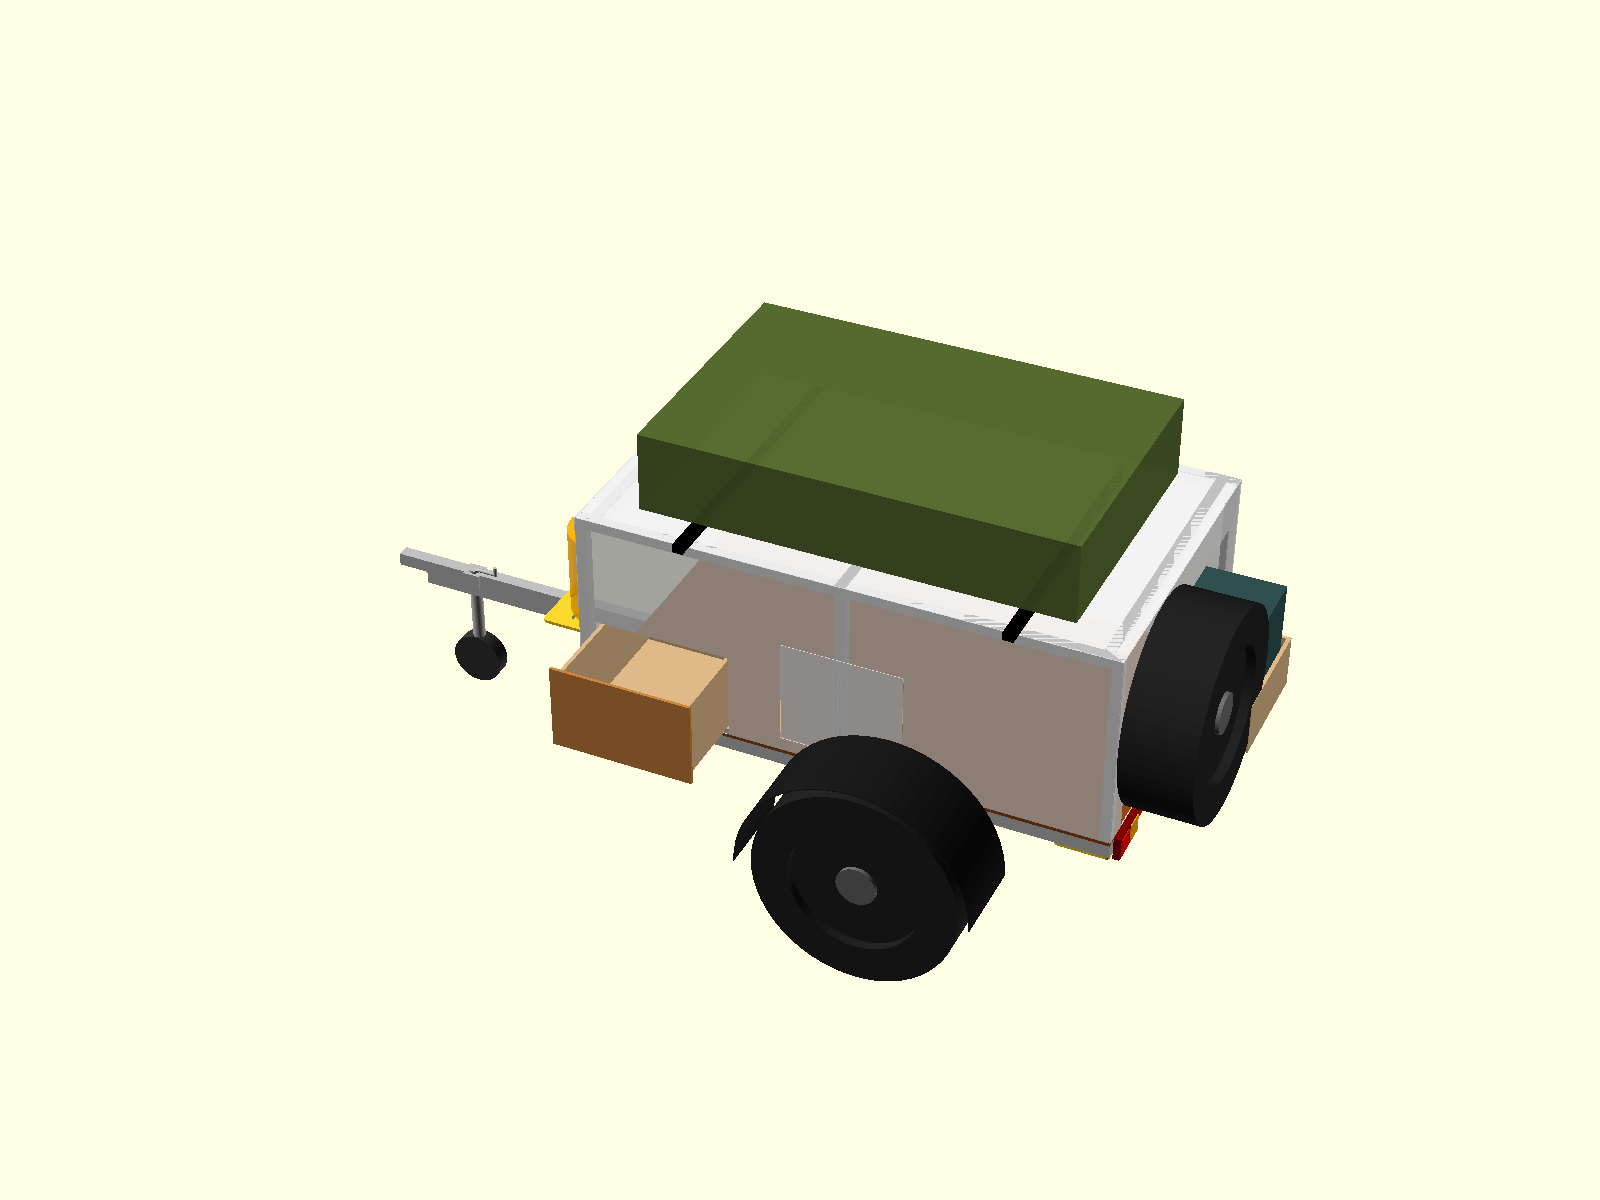
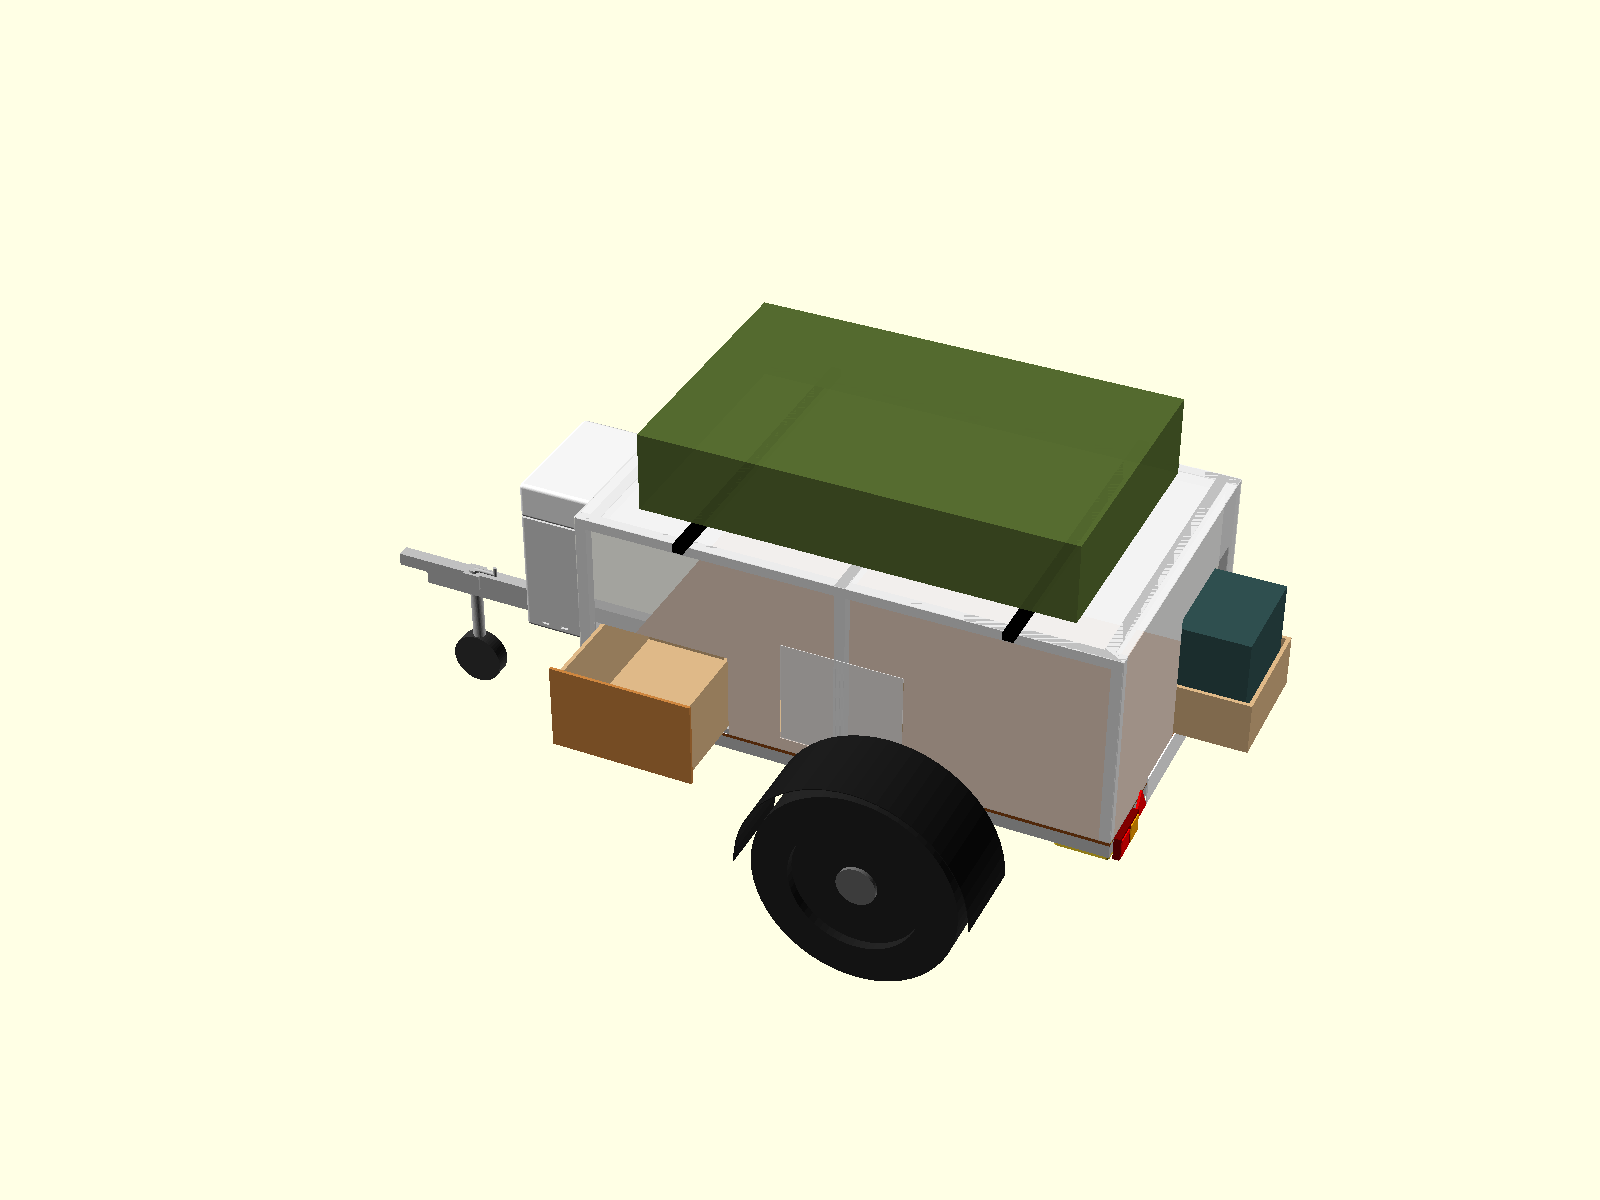
Gas locker box, no trailer spare, fridge-only rear hatch
- cad/gas_box.scad: caravan-style lockable gas locker on the drawbar,
  flush with the front wall - EN 1949 low-level vents, regulator
  inside, clamped to the beam (no holes in the drawbar). Replaces the
  open cradle + stone guard (kept as budget alternative).
- Spare wheel removed from the trailer: the wheel spec matches the
  Ranger exactly, so the car's underslung spare serves both.
- Rebalance: water-tank placeholder moved BEHIND the axle (x~1400,
  centered - freed by the spare removal, no drawbar there). Tongue
  58.5 kg (9.8%) full / 62.4 kg (11.3%) water empty; calculate_mass.py
  now reports both states and allows up to 12% with an S-value note.
- Rear wall solid except a 500x520 fridge hatch on the rear right,
  sill-free at the floor (was a full-width tailgate opening).

Changed region(s): [[0.6875, 0.4625, 0.8125, 0.7092], [0.3125, 0.4008, 0.375, 0.5242]]

diff --git a/scripts/calculate_mass.py b/scripts/calculate_mass.py
@@ -42,7 +42,6 @@ COMPONENTS = [
     # --- Running gear ---
     ("Torsion axle, braked, 6x139.7 + dampers",        75.0, AXLE_X),
     ("Wheels 2x 265/60R18 on Ranger rims (~32 kg)",    64.0, AXLE_X),
-    ("Spare wheel (rear mount)",                       32.0, 1900),
     ("Fenders + brackets",                              6.0, AXLE_X),
     ("Jockey wheel",                                    5.0, -800),
 
@@ -54,10 +53,14 @@ COMPONENTS = [
     ("Roof racks + roof tent",                         70.0, 1000),
 
     # --- Water (PLACEHOLDER: tank removed from the CAD assembly while
-    #     the mounting is reworked; keep the mass here at the candidate
-    #     position so the tongue budget stays honest) ---
-    ("Water tank 40 L FULL + tank (mounting TBD)",     45.0,  780),
-    ("Skid plate 3 mm alu tread (mounting TBD)",        6.5,  780),
+    #     the mounting is reworked. Candidate spot: BEHIND the axle,
+    #     centered (x~1400) — freed up when the spare wheel left the
+    #     trailer; no drawbar down there (beam ends at 1020) and it
+    #     pulls the tongue back into the window with the gas box up
+    #     front. Note: tongue RISES as water is consumed - see the
+    #     dry-tank line in the output.) ---
+    ("Water tank 40 L FULL + tank (mounting TBD)",     45.0, 1400),
+    ("Skid plate 3 mm alu tread (mounting TBD)",        6.5, 1400),
     ("Pump, hoses, filler, drain valve",                4.0, 1200),
 
     # --- Electrical (right side, bay ahead of the fridge drawer) ---
@@ -67,8 +70,8 @@ COMPONENTS = [
     ("Teltonika router, antenna, coax",                 3.0,  600),
 
     # --- Gas (right side / drawbar) ---
-    ("Propane P6 bottle FULL (6 kg gas + steel)",      14.0, -210),
-    ("Cradle, stone guard, straps",                     7.0, -210),
+    ("Propane P6 bottle FULL (6 kg gas + steel)",      14.0, -230),
+    ("Gas locker box + bearers/clamps (caravan style)", 10.0, -230),
     ("Gas piping, quick-connects, niches",              4.0, 1400),
 
     # --- Galley (kitchen/storage LEFT, electrical bay/fridge RIGHT) ---
@@ -116,13 +119,26 @@ def main():
     else:
         print(f"  [ok] Within assumed axle rating ({AXLE_RATING} kg — update to the purchased axle).")
 
-    pct = 100 * tongue / total
-    if not (5 <= pct <= 10):
-        print(f"  [!] Tongue load {pct:.1f}% is outside the 5-10% target — move the axle or heavy components.")
-    else:
-        print(f"  [ok] Tongue load within 5-10% target.")
+    # Tongue with the water tank EMPTY (worst case moves as the tank is
+    # consumed; water sits behind the axle, so draining RAISES the tongue)
+    dry = [(n, m, x) for n, m, x in COMPONENTS if "Water tank" not in n]
+    total_d = sum(m for _, m, _ in dry)
+    tongue_d = sum(m * (AXLE_X - x) for _, m, x in dry) / (AXLE_X - COUPLING_X)
+    print(f"  Tongue load (water empty):        {tongue_d:6.1f} kg ({100*tongue_d/total_d:.1f}%)")
 
-    if tongue > 100:
+    # Target: 5-10% classic guidance; up to ~12% is fine (and stability-
+    # positive) as long as the coupling S-value and the Ranger's rated
+    # ball load are respected.
+    for label, t, tot in (("full", tongue, total), ("water empty", tongue_d, total_d)):
+        pct = 100 * t / tot
+        if pct > 12 or pct < 5:
+            print(f"  [!] Tongue ({label}) {pct:.1f}% outside 5-12% — move the axle or heavy components.")
+        elif pct > 10:
+            print(f"  [i] Tongue ({label}) {pct:.1f}% — above the classic 10%, OK if within the coupling S-value / towbar ball rating.")
+        else:
+            print(f"  [ok] Tongue ({label}) {pct:.1f}% within the 5-10% target.")
+
+    if max(tongue, tongue_d) > 100:
         print(f"  [!] Check the Ford Ranger towbar's rated ball load (typical 75-100 kg for EU spec).")
 
 

diff --git a/SPECS.md b/SPECS.md
@@ -2,7 +2,7 @@
 
 ## Overall Goals
 - **Tow Vehicle:** Ford Ranger
-- **Track Width and Bolt Pattern:** Matched exactly to the tow vehicle (6x139.7). Tire size: 265/60R18 Falken Wildpeak A/T3W on Ford original rims. A common spare wheel is used for both car and trailer.
+- **Track Width and Bolt Pattern:** Matched exactly to the tow vehicle (6x139.7). Tire size: 265/60R18 Falken Wildpeak A/T3W on Ford original rims. The Ranger's underslung spare serves both car and trailer — no spare is carried on the trailer.
 - **Manufacturing Technique:** Custom-built CNC router (PrintNC) is utilized maximally for precision, corner joints, brackets, niches, and modular panels. Additionally, 3D printed guides will be used to ensure precise drilling of holes in the steel beams. A simplified, non-CNC version with cruder geometry will also be provided for builders without access to CNC routing.
 
 ## 1. Chassis & Mechanics
@@ -29,12 +29,12 @@
 
 ## 3. Propane System (RIGHT Side)
 - **Separation:** All propane on the right side for complete isolation from the electrical system.
-- **Tank:** 6 kg (P6/PK6) on the drawbar in a CNC-milled cradle, pushed back **flush against the front wall** (~45 mm gap) so it sits protected in the wall's wind shadow instead of hanging exposed mid-drawbar. Stone protection in bent aluminum tread plate wrapping the front of the bottle.
+- **Bottle housing:** 6 kg (P6/PK6) in a **caravan-style gas locker box** on the drawbar, flush against the front wall (`cad/gas_box.scad`). Lockable and weatherproof (stone protection all around, not just a front guard), with **low-level vent slots per EN 1949** (propane sinks) and the regulator/hose inside; the fixed pipe exits a floor gland to the right-side rail. Available off the shelf (poly drawbar boxes, Fiamma/Thule class) or CNC-folded in aluminum tread plate. Mounted on bearers **clamped** around the drawbar — the forward beam carries near-peak bending moment, so no holes in it. (The open CNC cradle + stone guard remains as the budget alternative, `cad/gas_bottle_mount.scad`.)
 - **Routing:** Fixed, clamped copper or steel pipes under the right frame. Bulkhead fittings at consumers.
 - **External Outlets:** Two fixed gas quick connects (GOK/Truma) in CNC-milled protective niches on the **right wall**: one **front-right** (short hose around the front to the slide-out kitchen counter on the front left) and one **rear-right** (griddle/outdoor kitchen at the tail). Mounted low-ish — propane is heavier than air, so the connects stay below the 230V inlet and away from any opening into the cabin — but above wheel-spray height.
 
 ## 4. Water System & Interior
-- **Water Tank (mounting UNDER REVIEW):** 40-liter **low-profile** tank (550x450x160, food-grade with baffles), modeled in `cad/water_tank.scad` but currently removed from the main assembly — the underslung mounting is being reworked (it must clear the central drawbar and the axle tube; candidate spot: ahead of the axle tube, offset left). Shallow on purpose: at 160 mm depth the skid plate sits ~405 mm above ground, level with the axle tube, instead of being the trailer's lowest point. Protected by a 3 mm aluminum tread skid plate with a beveled leading edge. Mass is kept as a placeholder in the tongue budget.
+- **Water Tank (mounting UNDER REVIEW):** 40-liter **low-profile** tank (550x450x160, food-grade with baffles), modeled in `cad/water_tank.scad` but currently removed from the main assembly — the underslung mounting is being reworked. Candidate spot: **behind the axle, centered** (x≈1400) — freed up now that no spare wheel is carried; there is no drawbar under the floor there (the beam ends at x=1020) and it balances the gas box up front. Caveat: with water behind the axle, the tongue load *rises* as the tank drains (see the dry-tank line in `calculate_mass.py`). Shallow on purpose: at 160 mm depth the skid plate sits ~405 mm above ground, level with the axle tube, instead of being the trailer's lowest point. Protected by a 3 mm aluminum tread skid plate with a beveled leading edge. Mass is kept as a placeholder in the tongue budget.
 - **Water Components:** External lockable filler (in Dibond wall), 12V pressure-controlled galley pump (Seaflo/Shurflo), central drain valve.
 - **Body:** Floor in 12-15 mm vehicle plywood (formply). Sides in 3-4 mm Dibond on steel/aluminum framework.
 - **Galley & Bay Layout (sides in TRAVEL direction, `cad/kitchen_drawer.scad`):**
@@ -43,14 +43,14 @@
     2. **Storage cabinet (mid left):** Fixed plywood cabinet (650 x 450 x 550) for utensils/dry goods, exterior door in the left wall (x 780-1240).
   - **RIGHT, front → rear:** electrical bay, then fridge drawer.
     3. **Electrical bay (mid right):** Mirrored cabinet housing the removable **power-station box** and distribution; the el-niche (router/connection panel) sits in its front bay, and the exterior door in the right wall (x 780-1240) lets the box lift out. Directly ahead of the fridge = short, fixed 12V run to the trailer's biggest consumer.
-    4. **Fridge drawer (rear right):** A fridge-sized tray (640 x 450, low sides) on slides, pulling out *rearward* through the tailgate — the rear hatch opening is **sill-free at floor level** for this. Holds the **12V compressor fridge** (e.g., Dometic CFX or Engel). A compressor fridge works off-level, has no flame/flue, and integrates with the CAN-controlled fridge relay — a 3-way absorption fridge was rejected: it must be near-level to run, needs a fixed flue and ventilation on gas (EN 1949), and an open-flame appliance on a moving drawer would be very hard to get approved.
+    4. **Fridge drawer (rear right):** A fridge-sized tray (640 x 450, low sides) on slides, pulling out *rearward* through a **fridge-sized hatch on the rear right** (500 x 520 mm, sill-free at floor level) — the rest of the rear wall, including the whole rear left, is solid. Holds the **12V compressor fridge** (e.g., Dometic CFX or Engel). A compressor fridge works off-level, has no flame/flue, and integrates with the CAN-controlled fridge relay — a 3-way absorption fridge was rejected: it must be near-level to run, needs a fixed flue and ventilation on gas (EN 1949), and an open-flame appliance on a moving drawer would be very hard to get approved.
 
-  **The energy chains to both drawers carry electrical only** — propane stays on fixed pipes to external quick-connects. CNC-milled ventilation grille in the trailer side for the fridge compressor. Note: the spare wheel can NOT hang centered on the tailgate (it would block the fridge drawer) — mount it on the left half of the rear wall or on the roof rack.
+  **The energy chains to both drawers carry electrical only** — propane stays on fixed pipes to external quick-connects. CNC-milled ventilation grille in the trailer side for the fridge compressor. Note: **no spare wheel is carried on the trailer** — the wheel spec matches the Ford Ranger exactly (6x139.7, 265/60R18 on original rims), so the car's underslung spare serves both. That is the shared-spare design goal paying off, and it keeps the tailgate free for the fridge drawer.
 
 ## 5. Road Legal & Registration (Sweden)
 - **Approval:** An amateur-built trailer requires *registreringsbesiktning* (individual approval) before road use. Contact the inspection body (Besikta/Opus/Dekra) early — their requirements drive design decisions.
 - **Weight class (DECIDED):** The trailer will be **braked** (overrun/auflauf brakes — braked torsion axles with 6x139.7 hubs exist from Knott/AL-KO). This permits registering a total weight above 750 kg, giving real payload margin — the current curb-weight estimate (~585 kg) leaves almost nothing under an unbraked 750 kg rating. The running weight and tongue-load budget is maintained in `scripts/calculate_mass.py`.
-- **Tongue load:** Target roughly 5-10% of total weight, and within the Ford Ranger towbar's rated ball load.
+- **Tongue load:** Target roughly 5-10% of total weight; up to ~12% is acceptable (and stability-positive) as long as it stays within the coupling's S-value and the Ford Ranger towbar's rated ball load. `calculate_mass.py` reports both the water-full and water-empty states — with the tank behind the axle, the tongue rises as water is consumed.
 - **Lighting & marking:** Full lighting per UNECE R48 (tail/brake/indicators, number-plate lamp, rear fog, reversing light where required), triangular rear reflectors (trailer-specific), side/front reflectors. E-marked components only.
 - **Mudguards/fenders:** Required — not yet in the CAD model.
 - **Coupling & safety:** Type-approved coupling head matched to the Ranger's ball height, plus breakaway cable (or safety chain for unbraked class) and jockey wheel.

diff --git a/concepts/gas_water_routing.md b/concepts/gas_water_routing.md
@@ -2,7 +2,7 @@
 
 ## Propane System
 - **Safety Principle (UNDER REVIEW):** The original rule was full left/right gas-electric separation. Since the electrical bay and fridge moved to the RIGHT side (2026-07 layout change), this principle is *parked* — the layout is being fixed first, then the gas routing and quick-connect positions will be refined around it (options: route gas along the left rail instead, or keep right-side pipes with vertical/distance separation from the electrical bay).
-- **Front Placement:** The P6/PK6 bottle stands on the drawbar in a CNC-milled cradle, pushed back **flush against the front wall** (~45 mm gap) — tucked into the wall's wind shadow rather than hanging exposed halfway out the drawbar. A bent tread plate (stone guard) wraps the front of the bottle; heavy-duty straps cross-lash it to the cradle.
+- **Front Placement:** The P6/PK6 bottle lives in a **caravan-style gas locker box** on the drawbar, flush against the front wall — lockable (bottle theft is real), fully weather/stone protected, and inspector-friendly: it is the housing every registreringsbesiktning has seen a hundred times. Low-level vents per EN 1949 (propane sinks; the box floor sits on open bearers so gas can never pool), regulator and hose inside, fixed pipe out through a floor gland to the right rail. The box is clamped to the drawbar — no holes in the beam. (Budget alternative: the open CNC cradle + bent stone guard, `cad/gas_bottle_mount.scad`.)
 - **External Outlets:** Two CNC-milled niches in the trailer's right Dibond side: **front-right** (short hose around the front corner feeds a gas stove on the slide-out kitchen counter, front left) and **rear-right** (Muurikka griddle or loose outdoor kitchen at the tail). The niches ensure that the quick connects (GOK/Truma with valve) do not protrude and get knocked off during tight forest driving. Both sit low-ish — propane sinks, so they stay below the 230V inlet (front wall, right half, high) and away from cabin openings — but above wheel-spray height.
 - **No Gas to the Drawers:** Propane terminates at the fixed external quick-connects — nothing flexible, and nothing routed alongside electrical cables. The rear fridge drawer holds a 12V compressor unit (works off-level, no flame, no flue — an absorption fridge would need to be level and vented per EN 1949, which is incompatible with a slide-out), and the stove connects outdoors to the front-right quick-connect. The energy chains to both drawers carry **electrical only**, which keeps the left/right gas-electric separation intact all the way.
 

diff --git a/MATERIALS.md b/MATERIALS.md
@@ -7,8 +7,8 @@
 - **Crush Sleeves:** Internal steel sleeves for every through-bolt (precision tube, e.g., 16x2.5 mm ID 11 for M10; 20x3 mm for M12), cut to the inner width of the VKR profile — required to reach full bolt preload without collapsing the 3 mm tube walls.
 - **Galvanic Corrosion Insulation:** Duralac anodic paste; optionally 0.5-1 mm G10/FR4 sheet as a rigid isolator. (No rubber/vinyl shims in structural joints — elastomers creep and kill bolt preload.)
 - **Wheels & Axle:** Braked torsion axle (overrun brakes, e.g., Knott/AL-KO) with 6x139.7 bolt pattern + shock absorber (damper) kit + matching overrun coupling with breakaway cable.
-- **Tires/Rims:** Falken Wildpeak A/T3W 265/60R18 on Ford Ranger original rims (x3 incl. spare).
-- **Drawbar & Protection:** Bent aluminum tread plate for stone protection, heavy-duty straps for propane.
+- **Tires/Rims:** Falken Wildpeak A/T3W 265/60R18 on Ford Ranger original rims (x2 — no spare on the trailer; the Ranger's underslung spare serves both).
+- **Gas Locker Box:** Caravan-style drawbar box for the P6 bottle (off-the-shelf poly, Fiamma/Thule class, or CNC-folded aluminum tread plate), with low-level ventilation per EN 1949, lockable lid, internal strap points; 2x aluminum bearers + U-straps to clamp it around the drawbar (no holes in the beam).
 - **Drawbar Joint (front crossbeam):** 2x steel angle L80x80x8 (S355), 120 mm long, hot-dip galvanized — clamp joint, no holes in the beam flanges. (Alternatives: CNC-milled 6082-T6 cradle, or M12 square U-bolts + top plate.)
 
 ## Electrical System & Electronics (Left Side)

diff --git a/.claude/skills/openscad-review/SKILL.md b/.claude/skills/openscad-review/SKILL.md
@@ -61,7 +61,7 @@ Notes learned the hard way (do not rediscover these):
 - Drawbar is a SINGLE central beam, VKR 100x50x4 standing on edge (~1000 mm reach), lapped under the frame to the MID crossmember (x 950-1000) and ending at x=1020 — it must NOT reach the torsion-axle tube (x 1070-1150, same depth). Front lap = angle-bracket clamp, rear lap = through-bolt. Sizing in frame.scad header and scripts/beam_check.py. (The V/A-frame is a preserved alternative, `drawbar_wedge_plate.scad`.)
 - Zig-zag (offset) bolt patterns along tubes — never a straight line of holes.
 - Gas stays right side / electrical left side; the corner "cable tunnel" radius must stay ≥ the LMR coax bend radius (~80 mm). One documented exception: the 230V CEE inlet on the front wall's right half (high), >500 mm from gas equipment.
-- Left-side galley order (front → rear): kitchen side-drawer (out through the left wall), storage cabinet with the power-station box, fridge drawer out the rear hatch (hatch is sill-free at floor level).
+- Galley order: LEFT front → rear: kitchen side-drawer (out through the left wall), storage cabinet. RIGHT: electrical bay, then fridge drawer out through a fridge-sized hatch on the rear RIGHT (500x520, sill-free at the floor) — the rest of the rear wall is solid. No spare wheel on the trailer (the Ranger's serves both).
 
 ## Report
 
